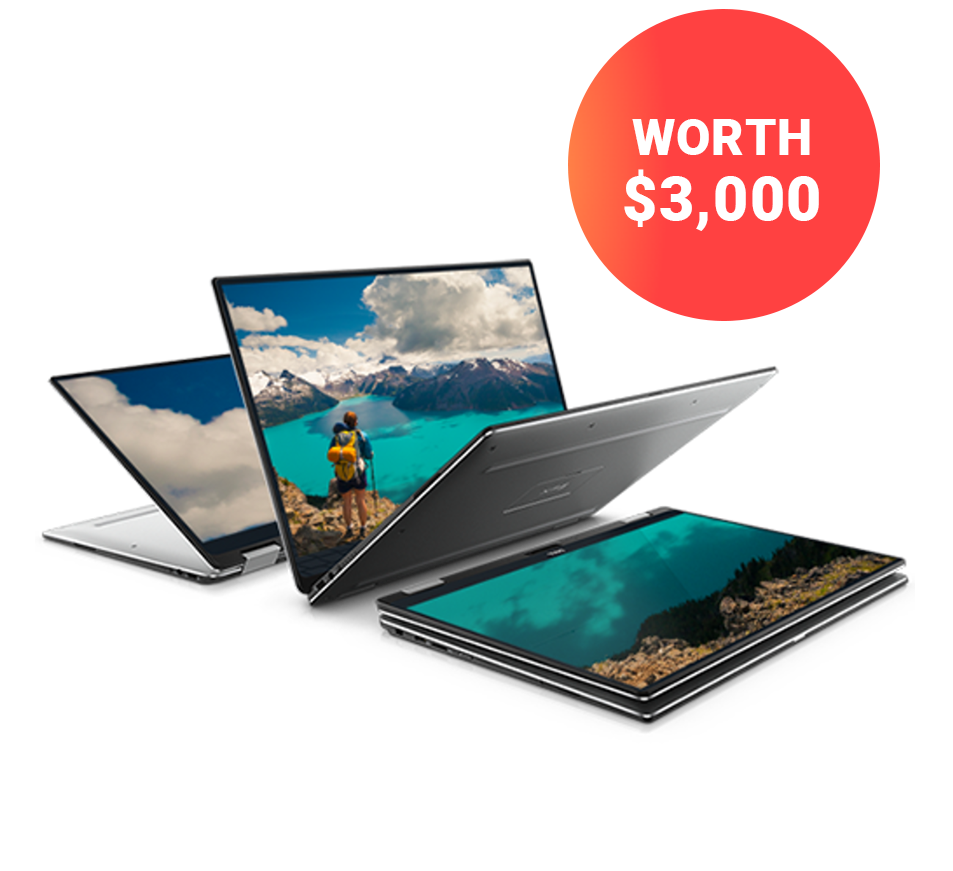
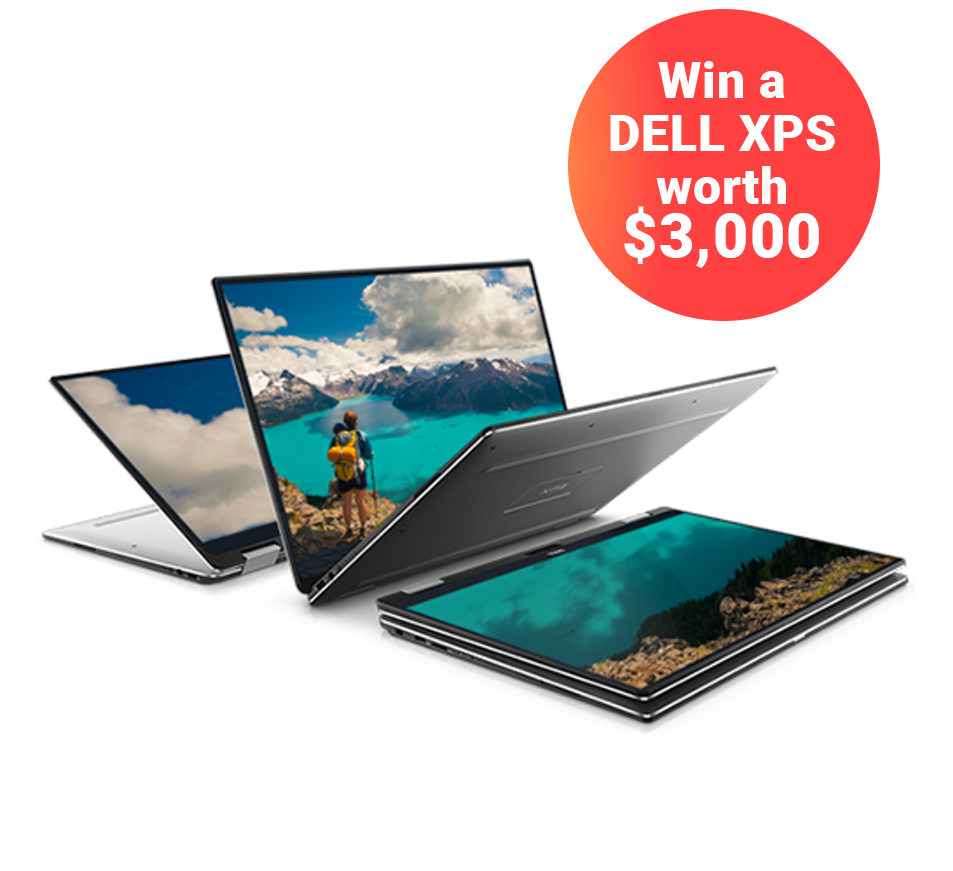
updat

Changed region(s): [[0.639, 0.062, 0.8825, 0.31]]

diff --git a/competition/index.html b/competition/index.html
@@ -14,8 +14,7 @@
   <nav class="navbar navbar-light bg-light">
     <div class="container">
       <div class="navbar-brand" href="#">
-        <img src="images/dell_logo_svg.png" width="auto" height="62" class="mr-3">
-        Employee Perks Program
+        <span class="dell-blue mr-3"><b>Employee Purchase Program</b></span> <span>|</span> <span class="ml-3 mr-3"><small>in association with</small></span>  <img src="images/dell_logo_svg.png" width="auto" height="62" class="mr-3">
       </div>
     </div>
   </nav>
@@ -38,61 +37,40 @@
             <b>Win a DELL XPS Laptop <br class="hidden-sm"> &amp; Access DELL Promo Codes</b>
           </p> -->
           <div class="pt-32p-0 mt-4">
-            <!-- <form id="subForm" class="js-cm-form" action="https://www.createsend.com/t/subscribeerror?description="
+            <form id="subForm" class="js-cm-form" action="https://www.createsend.com/t/subscribeerror?description="
[1 lines of base64/hex data omitted]
               <p>
-                <label for="fieldName" class="text-white">Name:</label>
+                <label for="fieldName" class="text-white">First &amp; Last Name:</label>
                 <br />
-                <input class="input-round" id="fieldName" name="cm-name" type="text" />
+                <input class="input-round" id="fieldName" name="cm-name" type="text" required/>
               </p>
               <p>
-                <label for="fieldEmail" class="text-white">Work Email:</label>
+                <label for="fieldEmail" class="text-white">Email:</label>
                 <br />
                 <input class="input-round" id="fieldEmail" name="cm-yhqel-yhqel" type="email" class="js-cm-email-input"
                   required />
-              </p> -->
-              <!-- <p>
-                  <label for="fieldjkejjk" class="text-white">Company Name</label>
+              </p>
+              <p>
+                  <label for="fieldjkejjk" class="text-white">I am an employee of: (Enter your organization)</label>
                   <br />
-                  <input class="input-round" id="fieldjkejjk" name="cm-f-jkejjk" type="text" />
-                </p> -->
-              <!-- <p>
+                  <input class="input-round" id="fieldjkejjk" name="cm-f-jkejjk" type="text" required/>
+                </p>
+              <p>
                 <button class="js-cm-submit-button btn btn-raised btn-warning btn-lg mt-2 radius" type="submit">
-                  Yes, enter me in to win!
+                  Yes, sign me up!
                 </button>
-              </p> -->
+              </p>
 
-              <!-- <small>
+              <small>
                 <p class="text-white">
                   <i>By signing up I agree to enter the Dell EPP draw and receive monthly Dell EPP offers by email. I
-                    agree to the Terms and Conditions and Privacy Policy. under the sign up button in italics</i> </p>
+                    agree to the Terms and Conditions and Privacy Policy.</i> </p>
               </small>
- -->
-            <!-- </form>
-            <script type="text/javascript" src="https://js.createsend1.com/javascript/copypastesubscribeformlogic.js"></script> -->
 
[1 lines of base64/hex data omitted]
-            <p>
-                <label for="fieldName"  class="text-white">Name</label>
-                <br />
-                <input class="input-round"  id="fieldName" name="cm-name" type="text" />
-            </p>
-            <p>
-                <label for="fieldEmail"  class="text-white">Email</label>
-                <br />
-                <input class="input-round"  id="fieldEmail" name="cm-yhqel-yhqel" type="email" class="js-cm-email-input"
-                required />
-            </p>
-            <p>
-                <label for="fieldjkejjk"  class="text-white">Company Name</label>
-                <br />
-                <input class="input-round" id="fieldjkejjk" name="cm-f-jkejjk" type="text" />
-            </p>
-            <p>
-                <button class="js-cm-submit-button btn btn-raised btn-warning btn-lg mt-2 radius" type="submit">Yes, enter me in to win!</button>
-            </p>
             </form>
             <script type="text/javascript" src="https://js.createsend1.com/javascript/copypastesubscribeformlogic.js"></script>
+
+
 
           </div>
         </div>
@@ -100,12 +78,18 @@
     </div>
   </div>
 
-  <!-- <footer> -->
+ <!-- <footer> -->
   <nav class="navbar navbar-light bg-light">
     <div class="container">
       <ul class="navbar-nav mr-auto d-flex flex-row">
         <li class="nav-item">
-          <a class="nav-link" href="#"><b>Privacy Policy</b></a>
+          <a class="nav-link" href="https://www.dell.com/learn/au/en/aucorp1/policies-privacy?c=au&l=en&s=corp&cs=aucorp1" target="_blank"><b>Dell Privacy Policy</b></a>
+        </li>
+        <li class="nav-item">
+          <div class="mt-1 text-muted"><small>|</small></div>
+        </li>
+        <li class="nav-item">
+          <a class="nav-link" href="https://www.oneaffiniti.com/australian-privacy-policy/" target="_blank"><b>OneAffiniti Privacy Policy</b></a>
         </li>
         <li class="nav-item">
           <div class="mt-1 text-muted"><small>|</small></div>
@@ -117,13 +101,12 @@
           <div class="mt-1 text-muted"><small>|</small></div>
         </li>
         <li class="nav-item">
-          <a class="nav-link" href="#"><b>Contact US</b></a>
+          <a class="nav-link" href="mailto:concierge@oneaffiniti.com"><b>Contact US</b></a>
         </li>
       </ul>
       <small>
         <p class="text-muted p-2 pb-0">
-          The Dell EPP is available to employees of valued client organisations. To access the Dell EPP offers, you
-          will need to sign up with your work (not personal) email address.
+          *Terms & Conditions apply
           <br>
           <br>
           Every month you will receive an email with Dell EPP promotional codes which can be used to access
@@ -131,6 +114,9 @@
           exclusive Dell EPP offers are available across a wide range of Dell products, including laptops,
           desktops, printers and much more. So whether it's for business or personal use don't miss out on this
           unique opportunity.
+          <br>
+          <br>
+          Dell promotional offers are subject to Dell's terms and conditions. Dell inc. disclaims any proprietary interest in these trademarks and names. For more important information about our products and services go to <a href="http://www.dell.com/important_information" target="_blank">Dell.com/important_information</a>. Content created and provided by OneAffiniti.
         </p>
       </small>
     </div>

diff --git a/competition/complete.html b/competition/complete.html
@@ -24,28 +24,31 @@
     <div class="container">
       <div class="row">
         <div class="col-md-8 offset-md-2 text-center">
-          <h2 class="display-3 text-white title">
-            Congratulations you are in the draw!
+          <h2 class="display-3 text-white titl">
+            Congratulations! You are now in the draw to win a Dell XPS Laptop!
+            <br>
+            <span><b>GOOD LUCK!</b></span>
           </h2>
           <p class="text-white">
-            You also have to access to save up to 30% of Dell, so head over ans save now.
+            Thank you for signing up, here’s an extra 5% off your Dell purchase!
+Check out Dell latest offer <a href="http://altfarm.mediaplex.com/ad/ck/10589-241552-63443-0?ven1=eppplus&ven2=signup&ven3=122018&mpre=https%3A%2F%2Fwww.dell.com%2Fen-au%2Fshop%2Fdeals%2Fpopular-laptop-deals%3Fr%3Depp" target="_blank" class="text-warning">here</a>!
           </p>
         </div>
-        <div class="col-md-6 offset-md-3 text-center circles">
+        <div class="col-md-6 offset-md-3 text-center circles mt-3">
           <div class="big-circle">
               <h3>
                 <b class="text-muted">
-                  EXCLUSIVE <br>
+                  EXCLUSIVE DELL<br>
                   COUPON CODE:
                 </b>
               </h3>
-              <h1>
+              <h1 class="mt-4">
                 <b class="text-muted">
-                  EPP50FF
+                  EPP5off
                 </b>
                 </h1>
-              <a href="#" class="js-cm-submit-button btn btn-raised btn-warning btn-lg mt-2 radius mt-4">
-                  Yes, I want to save
+              <a href="http://altfarm.mediaplex.com/ad/ck/10589-241552-63443-0?ven1=eppplus&ven2=signup&ven3=122018&mpre=https%3A%2F%2Fwww.dell.com%2Fen-au%2Fshop%2Fdeals%2Fpopular-laptop-deals%3Fr%3Depp" target="blank" class="js-cm-submit-button btn btn-raised btn-warning btn-lg mt-2 radius mt-4">
+                  Shop Now
                   <img src="images/arrow-right.svg" width="16" class="mb-1">
               </a>
               <img src="images/dog.png" class="doggy" width="250" width="250">
@@ -54,6 +57,51 @@
       </div>
     </div>
   </div>
+
+  <!-- <footer> -->
+    <nav class="navbar navbar-light bg-light">
+      <div class="container">
+        <ul class="navbar-nav mr-auto d-flex flex-row">
+          <li class="nav-item">
+            <a class="nav-link" href="https://www.dell.com/learn/au/en/aucorp1/policies-privacy?c=au&l=en&s=corp&cs=aucorp1" target="_blank"><b>Dell Privacy Policy</b></a>
+          </li>
+          <li class="nav-item">
+            <div class="mt-1 text-muted"><small>|</small></div>
+          </li>
+          <li class="nav-item">
+            <a class="nav-link" href="https://www.oneaffiniti.com/australian-privacy-policy/" target="_blank"><b>OneAffiniti Privacy Policy</b></a>
+          </li>
+          <li class="nav-item">
+            <div class="mt-1 text-muted"><small>|</small></div>
+          </li>
+          <li class="nav-item">
+            <a class="nav-link" href="#"> <b>Terms and Conditions</b></a>
+          </li>
+          <li class="nav-item">
+            <div class="mt-1 text-muted"><small>|</small></div>
+          </li>
+          <li class="nav-item">
+            <a class="nav-link" href="mailto:concierge@oneaffiniti.com"><b>Contact US</b></a>
+          </li>
+        </ul>
+        <small>
+          <p class="text-muted p-2 pb-0">
+            *Terms & Conditions apply
+            <br>
+            <br>
+            Every month you will receive an email with Dell EPP promotional codes which can be used to access
+            employee discounts in addition to any other promotional price being offered by Dell at that time. These
+            exclusive Dell EPP offers are available across a wide range of Dell products, including laptops,
+            desktops, printers and much more. So whether it's for business or personal use don't miss out on this
+            unique opportunity.
+            <br>
+            <br>
+            Dell promotional offers are subject to Dell's terms and conditions. Dell inc. disclaims any proprietary interest in these trademarks and names. For more important information about our products and services go to <a href="http://www.dell.com/important_information" target="_blank">Dell.com/important_information</a>. Content created and provided by OneAffiniti.
+          </p>
+        </small>
+      </div>
+    </nav>
+    <!-- </footer> -->
 
   <script src="js/jquery-3.2.1.slim.min.js"></script>
   <script src="js/popper.js"></script>

diff --git a/competition/css/sass/main.scss b/competition/css/sass/main.scss
@@ -21,6 +21,9 @@
 // }
 
 $green: #2AC080;
+$dell-blue: #007db8;
+
+
 
 .text-purple {
 	color:#663190;
@@ -33,7 +36,9 @@ $green: #2AC080;
 }
 
 
-
+.dell-blue {
+	color: $dell-blue;
+}
 
 // body {
 // 	padding-bottom: 6rem;
@@ -84,7 +89,8 @@ $green: #2AC080;
 }
 
 .gradient-bg {
-	background-image: linear-gradient( 206.8deg,  rgba(73,168,255,1) 19.1%, rgba(0,48,249,1) 109.8% ) ;
+	// background-image: linear-gradient( 206.8deg,  rgba(73,168,255,1) 19.1%, rgba(0,48,249,1) 109.8% ) ;
+	background: #0085c3;
 }
 
 .radius {
@@ -188,3 +194,4 @@ $green: #2AC080;
 		font-size: 12px;
 	}
 }
+

diff --git a/competition/css/main.css b/competition/css/main.css
@@ -10,6 +10,10 @@
   background: #2AC080;
 }
 
+.dell-blue {
+  color: #007db8;
+}
+
 .form-placeholder-one {
   margin-top: -250px;
 }
@@ -49,8 +53,7 @@
 }
 
 .gradient-bg {
-  background-image: -moz- oldlinear-gradient(243.2deg, #49a8ff 19.1%, #0030f9 109.8%);
-  background-image: linear-gradient(206.8deg, #49a8ff 19.1%, #0030f9 109.8%);
+  background: #0085c3;
 }
 
 .radius {
